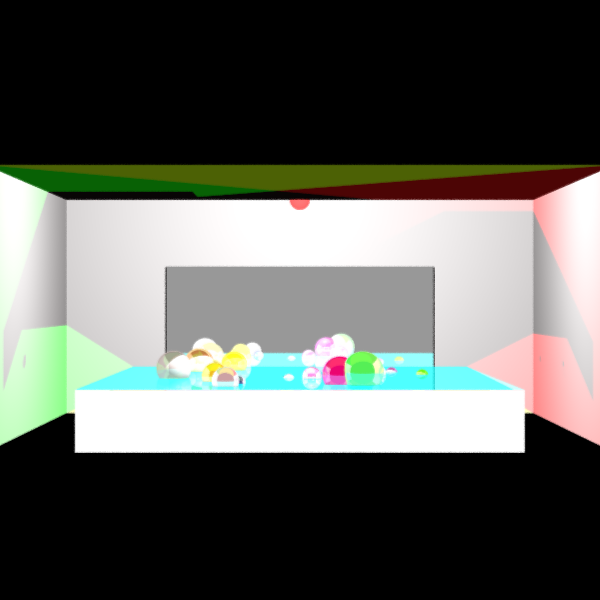
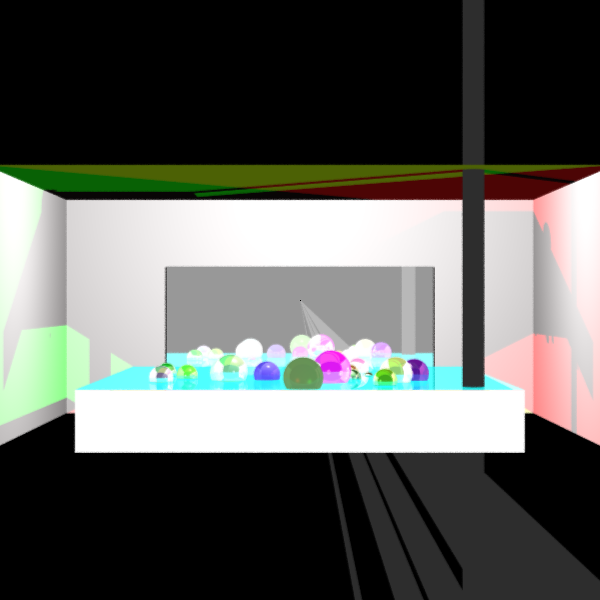
mp1

diff --git a/src/unittests/RivkaImage.java b/src/unittests/RivkaImage.java
@@ -204,7 +204,7 @@ public class RivkaImage {
                    //  .setEmissionColor((new Color(brown)))
                    //  .setMaterial(new Material().setkD(1).setnShininess(50))
             //    ,
-                      //*******************************shelf*******************************/
+                      //*******************************page_right*******************************/
 
                       
                       
@@ -309,10 +309,115 @@ public class RivkaImage {
                                         new Material().setkD(0.3).setkS(0.2).setnShininess(85).setkR(0.4),
                                         4,
                                         new Point3D(-40, 85, -185)),
+                                //*******************************page_left*******************************/
+
+                                
+                                
+                                
+                                
+                                
+                                new Cylinder(
+                                               new Color(40, 40, 40),
+                                               new Material().setkD(0.4).setkS(0.2).setnShininess(35).setkR(0),
+                                               2.5,
+                                               new Point3D(250, 85, -185),
+                                               new Point3D(40, 85, -185)),
+
+                                       new Cylinder(
+                                               new Color(40, 40, 40),
+                                               new Material().setkD(0.4).setkS(0.2).setnShininess(35).setkR(0),
+                                               2.5,
+                                               new Point3D(250, 85, -191),
+                                               new Point3D(40, 85, -191)),
+
+                                       new Cylinder(
+                                               new Color(40, 40, 40),
+                                               new Material().setkD(0.4).setkS(0.2).setnShininess(35).setkR(0),
+                                               2.5,
+                                               new Point3D(250, 85, -197),
+                                               new Point3D(40, 85, -197)),
+
+                                       new Cylinder(
+                                               new Color(40, 40, 40),
+                                               new Material().setkD(0.4).setkS(0.2).setnShininess(35).setkR(0),
+                                               2.5,
+                                               new Point3D(250, 85, -203),
+                                               new Point3D(40, 85, -203)),
+
+                                       new Cylinder(
+                                               new Color(40, 40, 40),
+                                               new Material().setkD(0.4).setkS(0.2).setnShininess(35).setkR(0),
+                                               2.5,
+                                               new Point3D(250, 85, -209),
+                                               new Point3D(40, 85, -209)),
+
+                                       new Cylinder(
+                                               new Color(40, 40, 40),
+                                               new Material().setkD(0.4).setkS(0.2).setnShininess(35).setkR(0),
+                                               2.5,
+                                               new Point3D(250, 85, -215),
+                                               new Point3D(40, 85, -215)),
+
+                                       new Cylinder(
+                                               new Color(40, 40, 40),
+                                               new Material().setkD(0.4).setkS(0.2).setnShininess(35).setkR(0),
+                                               2.5,
+                                               new Point3D(250, 85, -221),
+                                               new Point3D(40, 85, -221)),
+
+                                       new Cylinder(
+                                               new Color(40, 40, 40),
+                                               new Material().setkD(0.4).setkS(0.2).setnShininess(35).setkR(0),
+                                               2.5,
+                                               new Point3D(250, 85, -227),
+                                               new Point3D(40, 85, -227)),
+
+                                       new Cylinder(
+                                               new Color(40, 40, 40),
+                                               new Material().setkD(0.4).setkS(0.2).setnShininess(35).setkR(0),
+                                               2.5,
+                                               new Point3D(250, 85, -233),
+                                               new Point3D(40, 85, -233)),
+
+                                       new Cylinder(
+                                               new Color(40, 40, 40),
+                                               new Material().setkD(0.4).setkS(0.2).setnShininess(35).setkR(0),
+
+                                               2.5,
+                                               new Point3D(250, 85, -239),
+                                               new Point3D(40, 85, -239)),
+                                       new Cylinder(
+                                               new Color(40, 40, 40),
+                                               new Material().setkD(0.4).setkS(0.2).setnShininess(35).setkR(0),
+                                               2.5,
+                                               new Point3D(250, 85, -245),
+                                               new Point3D(40, 85, -245)),
+
+                                       new Cylinder(
+                                               new Color(40, 40, 40),
+                                               new Material().setkD(0.4).setkS(0.2).setnShininess(35).setkR(0),
+                                               2.5,
+                                               new Point3D(40, 85, -185),
+                                               new Point3D(40, 250, -185)),
+
+                                       new Cylinder(
+                                               new Color(40, 40, 40),
+                                              
+                                               new Material().setkD(0.4).setkS(0.2).setnShininess(35).setkR(0),
+                                               2.5,
+                                               new Point3D(40, 85, -185),
+                                               new Point3D(40, 85, -250)),
+
+                                       new Sphere(
+                                               new Color(40, 40, 40),
+                                              // new Material(0.3, 0.20, 85, 0.40, 0),
+                                               new Material().setkD(0.3).setkS(0.2).setnShininess(85).setkR(0.4),
+                                               4,
+                                               new Point3D(40, 85, -185)),
 
                 //*************************objects on the shelf**********************/
 
-             /*                  new Cylinder(
+                           new Cylinder(
                                         new Color(40, 40, 40),
                                         new Material().setkD(0.4).setkS(0.2).setnShininess(35).setkR(0),
                                         25,
@@ -350,7 +455,7 @@ public class RivkaImage {
                                   new Sphere(
                                               new Color(40, 40, 40),
                                           new Material().setkD(0.3).setkS(0.2).setnShininess(85).setkR(0.4),
-                                            //  new Material(0.3, 0.20, 85, 0.40, 0),
+                                            `//  new Material(0.3, 0.20, 85, 0.40, 0),
                                               8,
                                               new Point3D(125, 8, -50)),
 
@@ -526,8 +631,8 @@ public class RivkaImage {
                         new Polygon(
                                 new Point3D(40,-39,-14),
                                 new Point3D(-40,-39,-14),
-                                new Point3D(-40,-39,30),
-                                new Point3D(40, -39, 30)).
+                                new Point3D(-40,-39,15),
+                                new Point3D(40, -39, 15)).
                                 setEmission(new Color(20, 20, 20))
                                 .setMaterial(new Material().setkR(0.8).setkS(0.5)));
         		     /*   new Cylinder(
